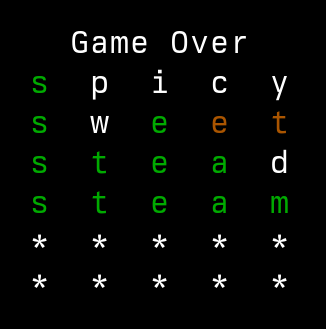
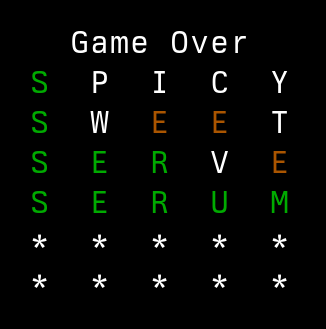
Display game grid and keys in uppercase

diff --git a/wordle.go b/wordle.go
@@ -48,7 +48,7 @@ func printGameGrid() {
 				runeColor = color.Yellow
 			}
 
-			fmt.Print(runeColor + " " + string(currentChar.value) + " " + color.Reset)
+			fmt.Print(runeColor + " " + strings.ToUpper(string(currentChar.value)) + " " + color.Reset)
 		}
 		fmt.Println()
 	}
@@ -64,7 +64,7 @@ func printKeyboard() {
 		if keyboardMap[v] {
 			keyColor = color.Gray
 		}
-		print(keyColor + string(v) + color.Reset)
+		print(keyColor + strings.ToUpper(string(v)) + color.Reset)
 	}
 
 	fmt.Println()
@@ -76,7 +76,7 @@ func printKeyboard() {
 		if keyboardMap[v] {
 			keyColor = color.Gray
 		}
-		print(keyColor + string(v) + color.Reset)
+		print(keyColor + strings.ToUpper(string(v)) + color.Reset)
 	}
 
 	fmt.Println()
